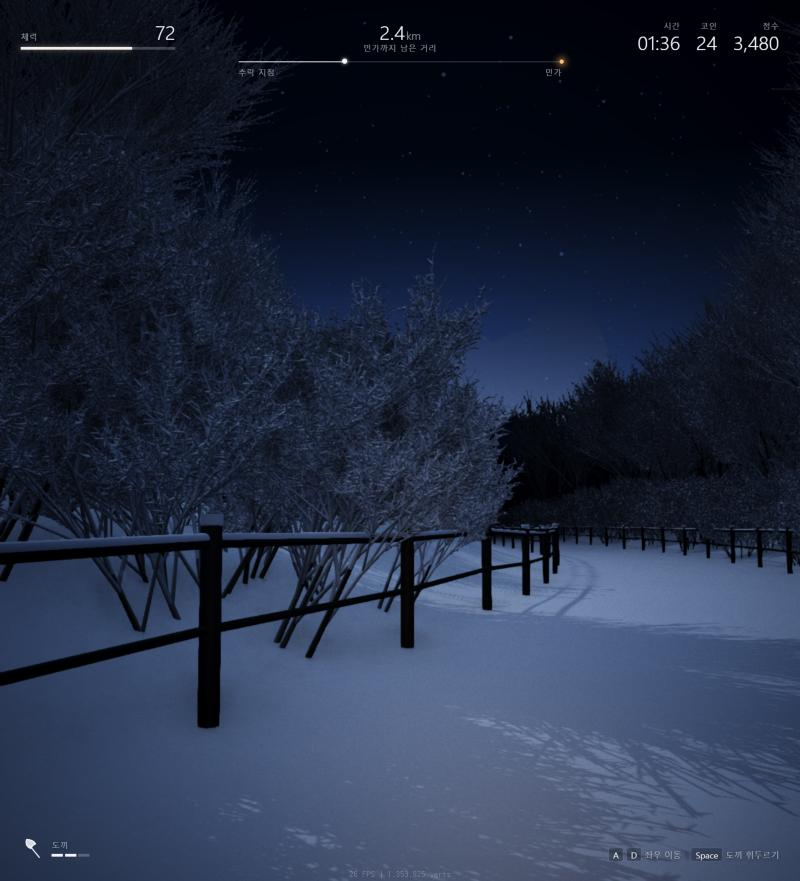
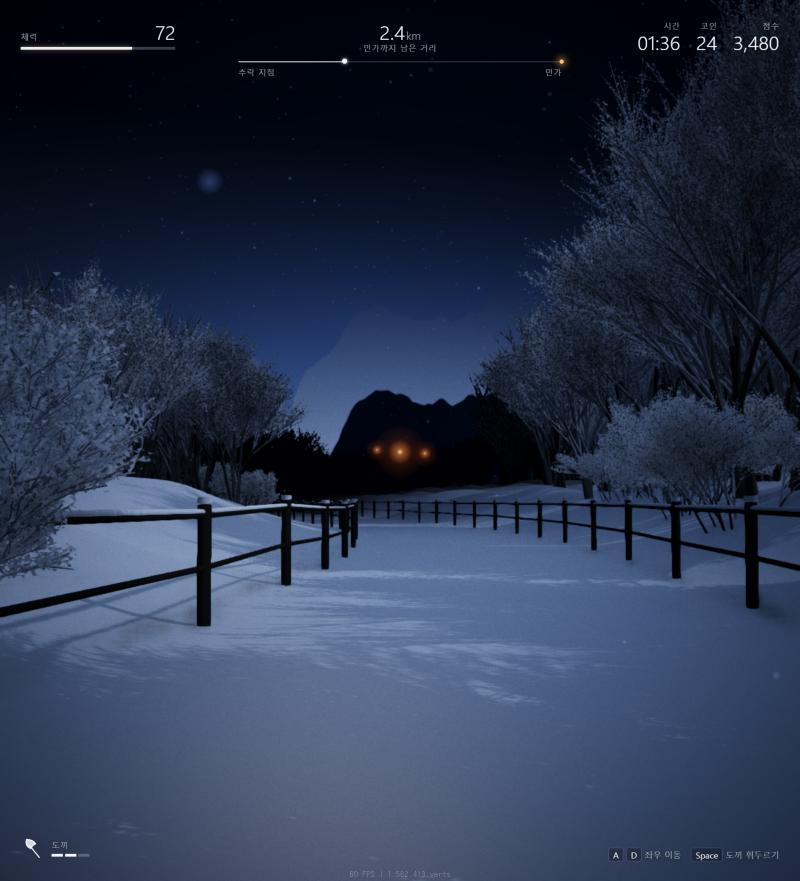
feat: 렌더 테스트의 민가 불빛, 상고대, 성능 개선
숲길 끝에 민가 불빛이 보이도록 구도와 나무 배치를 바꾸고, 달빛을 측면으로 옮김.
상고대를 삼각형 결정으로 바꾸고 그림자와 후처리 부하를 줄여 26 FPS에서 60 FPS로 개선

diff --git a/concept/index.html b/concept/index.html
@@ -104,7 +104,7 @@ const groundY = (x, z) => {
   return smooth(2.6, 9, d) * (1.1 + d * .05) + (fbm(x * .12, z * .12) - .5) * (.25 + smooth(3, 12, d) * 2.2) - z * .035;
 };
 
-const VILLAGE_Z = 170, VILLAGE_X = pathX(170);
+const VILLAGE_Z = 170, VILLAGE_X = 34;
 const canvas = document.getElementById('c');
 const engine = new B.Engine(canvas, true, { preserveDrawingBuffer: true, stencil: true });
 const scene = new B.Scene(engine);
@@ -115,14 +115,14 @@ scene.fogDensity = .013;
 
 const camY = groundY(pathX(0), 0) + 1.3;
 const camera = new B.UniversalCamera('cam', new B.Vector3(pathX(0), camY, 0), scene);
-camera.setTarget(new B.Vector3(VILLAGE_X * .1 + pathX(0) * .9, camY + 1.2, 17));
+camera.setTarget(new B.Vector3(VILLAGE_X * 22 / VILLAGE_Z, camY + .9, 22));
 camera.fov = 1.0;
 camera.minZ = .1;
 camera.maxZ = 900;
 camera.attachControl(canvas, true);
 
 // 조명: 달빛, 하늘빛, 플레이어 앞의 약한 랜턴 빛
-const moon = new B.DirectionalLight('moon', new B.Vector3(.55, -.7, -.45).normalize(), scene);
+const moon = new B.DirectionalLight('moon', new B.Vector3(-.72, -.62, .32).normalize(), scene);
 moon.diffuse = new B.Color3(.62, .74, 1);
 moon.intensity = 1.5;
 const hemi = new B.HemisphericLight('hemi', new B.Vector3(0, 1, 0), scene);
@@ -216,14 +216,25 @@ function buildPlant(opts) {
       ind.push(base + s, base + sides + s, base + n, base + n, base + sides + s, base + sides + n);
     }
   };
+  const flake = (c, size) => {
+    const base = pos.length / 3;
+    const nx = rnd(-.45, .45), ny = 1, nz = rnd(-.45, .45), l = Math.hypot(nx, ny, nz);
+    for (let i = 0; i < 3; i++) {
+      const a = i * 2.09 + rnd(-.5, .5);
+      pos.push(c.x + Math.cos(a) * size, c.y + rnd(-size, size), c.z + Math.sin(a) * size);
+      nor.push(nx / l, ny / l, nz / l);
+      const w = rnd(.82, 1);
+      col.push(w * .95, w * .97, w, 1);
+    }
+    ind.push(base, base + 1, base + 2);
+  };
   const grow = (p, d, len, r, depth) => {
     const end = p.add(d.scale(len));
-    tube(p, end, r, r * .68, depth > 3 ? 6 : depth > 1 ? 4 : 3, depth >= opts.barkDepth ? .1 : .55 + (opts.barkDepth - depth) * .12);
+    tube(p, end, r, r * .68, depth > 3 ? 6 : depth > 1 ? 4 : 3, depth >= opts.barkDepth ? .1 : .68 + (opts.barkDepth - depth) * .1);
     if (depth <= 2) for (let i = 0; i < opts.needles; i++) {
       // 상고대 결정: 가지에서 바람 방향으로 뻗는 흰 침상 구조
-      const a = p.add(d.scale(rnd(0, len)));
-      const nd = new B.Vector3(rnd(-1, 1), rnd(-.2, 1), rnd(-1, 1)).normalize();
-      tube(a, a.add(nd.scale(rnd(.025, .075))), rnd(.005, .01), .002, 3, 1);
+      const a = p.add(d.scale(rnd(0, len))).add(new B.Vector3(rnd(-.05, .05), rnd(-.02, .06), rnd(-.05, .05)));
+      flake(a, rnd(.008, .022));
     }
     if (depth === 0) return;
     const kids = depth > opts.depth - 2 ? 2 + Math.round(rnd()) : 3;
@@ -263,22 +274,21 @@ const place = (count, zMin, zMax, dMin, dMax, sMin, sMax) => {
   for (let i = 0; i < count; i++) {
     const z = rnd(zMin, zMax), side = rnd() < .5 ? -1 : 1, d = rnd(dMin, dMax), x = pathX(z) + side * d;
     const lineX = pathX(0) + (VILLAGE_X - pathX(0)) * z / VILLAGE_Z;
-    if (z > 12 && z < VILLAGE_Z + 20 && Math.abs(x - lineX) < 3.5 + z * .06) continue;
+    if (z > 12 && z < VILLAGE_Z + 20 && Math.abs(x - lineX) < 6 + z * .07) continue;
     out.push({ x, z, y: groundY(x, z) - .1, s: rnd(sMin, sMax) });
   }
   return out;
 };
 
-const heroTree = buildPlant({ name: 'hero', depth: 6, stems: 3, len: 2.5, radius: .13, spread: .62, lean: .22, barkDepth: 5, needles: 9 });
+const heroTree = buildPlant({ name: 'hero', depth: 6, stems: 3, len: 2.5, radius: .13, spread: .62, lean: .22, barkDepth: 5, needles: 24 });
 const farTree = buildPlant({ name: 'far', depth: 4, stems: 3, len: 3, radius: .17, spread: .72, lean: .22, barkDepth: 4, needles: 0 });
-const shrub = buildPlant({ name: 'shrub', depth: 5, stems: 7, len: .72, radius: .022, spread: .8, lean: .55, barkDepth: 5, needles: 9 });
+const shrub = buildPlant({ name: 'shrub', depth: 5, stems: 7, len: .72, radius: .022, spread: .8, lean: .55, barkDepth: 5, needles: 18 });
 
-scatter(heroTree, place(70, -6, 60, 6, 20, .9, 1.35));
+scatter(heroTree, place(44, -6, 60, 6, 20, .9, 1.35));
 scatter(farTree, place(900, 30, 300, 7, 72, .9, 1.5).concat(place(160, -10, 30, 20, 72, 1, 1.5)));
-scatter(shrub, place(280, -6, 110, 3.4, 8, .8, 1.5));
+scatter(shrub, place(170, -6, 110, 3.4, 8, .8, 1.5));
 shadow.addShadowCaster(heroTree);
 shadow.addShadowCaster(shrub);
-shadow.addShadowCaster(farTree);
 
 // 울타리: 어두운 기둥과 위에 눈이 쌓인 난간
 const postMat = lit('post', .03, .028, .03, .55);
@@ -341,7 +351,7 @@ for (const side of [-1, 1]) {
   m.emissiveTexture = tex; m.disableLighting = true; m.fogEnabled = false; m.backFaceCulling = false;
   m.emissiveTexture.level = 1;
   const sky = B.MeshBuilder.CreatePlane('sky', { width: 1500, height: 750 }, scene);
-  sky.position.set(camera.position.x, 90, 560);
+  sky.position.set(VILLAGE_X * 3.3, 90, 560);
   sky.material = m;
   sky.applyFog = false;
 }
@@ -350,14 +360,14 @@ for (const side of [-1, 1]) {
 {
   const size = 256, tex = new B.DynamicTexture('glow', size, scene, true), c = tex.getContext();
   const g = c.createRadialGradient(128, 128, 0, 128, 128, 128);
-  g.addColorStop(0, 'rgba(255,214,150,1)'); g.addColorStop(.18, 'rgba(255,160,80,.42)'); g.addColorStop(1, 'rgba(255,120,40,0)');
+  g.addColorStop(0, 'rgba(255,224,176,.95)'); g.addColorStop(.1, 'rgba(255,176,104,.3)'); g.addColorStop(.45, 'rgba(255,140,70,.05)'); g.addColorStop(1, 'rgba(255,120,40,0)');
   c.fillStyle = g; c.fillRect(0, 0, size, size); tex.update(false); tex.hasAlpha = true;
   const m = new B.StandardMaterial('glowM', scene);
   m.emissiveTexture = tex; m.opacityTexture = tex; m.disableLighting = true; m.fogEnabled = false;
   m.alphaMode = B.Engine.ALPHA_ADD; m.backFaceCulling = false;
-  [[0, 0, 26], [-7, 1, 9], [6, -.6, 11]].forEach(([dx, dy, s], i) => {
+  [[0, 0, 12], [-5, .4, 5], [5.5, -.3, 6]].forEach(([dx, dy, s], i) => {
     const z = VILLAGE_Z, x = VILLAGE_X + dx, gl = B.MeshBuilder.CreatePlane('g' + i, { size: s }, scene);
-    gl.position.set(x, camY + 3.2 + dy, z);
+    gl.position.set(x, camY + 4.5 + dy, z);
     gl.billboardMode = B.Mesh.BILLBOARDMODE_ALL;
     gl.material = m;
   });
@@ -385,7 +395,7 @@ for (const side of [-1, 1]) {
 
 // 후처리
 const pipe = new B.DefaultRenderingPipeline('pipe', true, scene, [camera]);
-pipe.samples = 4;
+pipe.samples = 2;
 pipe.fxaaEnabled = true;
 pipe.bloomEnabled = true; pipe.bloomThreshold = .72; pipe.bloomWeight = .45; pipe.bloomKernel = 72; pipe.bloomScale = .5;
 pipe.grainEnabled = true; pipe.grain.intensity = 6; pipe.grain.animated = true;
@@ -395,7 +405,7 @@ ip.exposure = 1.3; ip.contrast = 1.25;
 ip.vignetteEnabled = true; ip.vignetteWeight = 1.6; ip.vignetteColor = new B.Color4(0, 0, 0, 0); ip.vignetteCameraFov = 1;
 
 const ssao = new B.SSAO2RenderingPipeline('ssao', scene, { ssaoRatio: .5, blurRatio: 1 }, [camera]);
-ssao.radius = 1.4; ssao.totalStrength = 1.15; ssao.samples = 16; ssao.maxZ = 120; ssao.minZAspect = .3;
+ssao.radius = 1.4; ssao.totalStrength = 1.15; ssao.samples = 8; ssao.maxZ = 120; ssao.minZAspect = .3;
 
 const fps = document.getElementById('fps');
 let frames = 0;

diff --git a/README.md b/README.md
@@ -80,7 +80,7 @@
 - [x] 새 기획으로 PRD와 Todo 수정
 - [x] 배경 렌더 테스트 작성 ([concept/index.html](concept/index.html))
 - [x] HUD 디자인
-- [ ] 렌더 테스트 개선 (민가 불빛, 상고대, 성능)
+- [x] 렌더 테스트 개선 (민가 불빛, 상고대, 성능)
 - [ ] 프로젝트 전용 스킬 작성
 - [ ] 게임용 index.html 구성
 - [ ] GitHub Pages 배포
@@ -112,6 +112,7 @@
 | 2026-10-30 | 수정 | Vite, TypeScript 빌드 | HTML과 CDN만 사용 | 받아서 바로 열 수 있고 GitHub Pages에 그대로 올릴 수 있어야 함 |
 | 2026-10-30 | 수정 | 충돌 시 즉시 게임 오버 | 체력 감소 후 0이면 게임 오버 | HUD에 체력을 표시하기로 함 |
 | 2026-10-30 | 추가 | 없음 | HUD 디자인 | 플레이 정보를 구현 전에 확정하기 위함 |
+| 2026-10-30 | 수정 | 상고대를 튜브로 표현 | 작은 삼각형 결정으로 표현 | 렌더 테스트에서 약 26 FPS(135만 버텍스)가 60 FPS(156만 버텍스)로 개선됨. 먼 나무 그림자 제외, 나무 수 감소, SSAO와 안티앨리어싱 샘플 감소를 함께 적용 |
 | 2026-10-30 | 수정 | 성능 측정과 최적화 | 게임 완성 후 최적화하고 전후 수치를 기록 | 렌더 테스트가 약 26 FPS로 목표 30 FPS에 못 미침 |
 
 ## 4. 스킬
